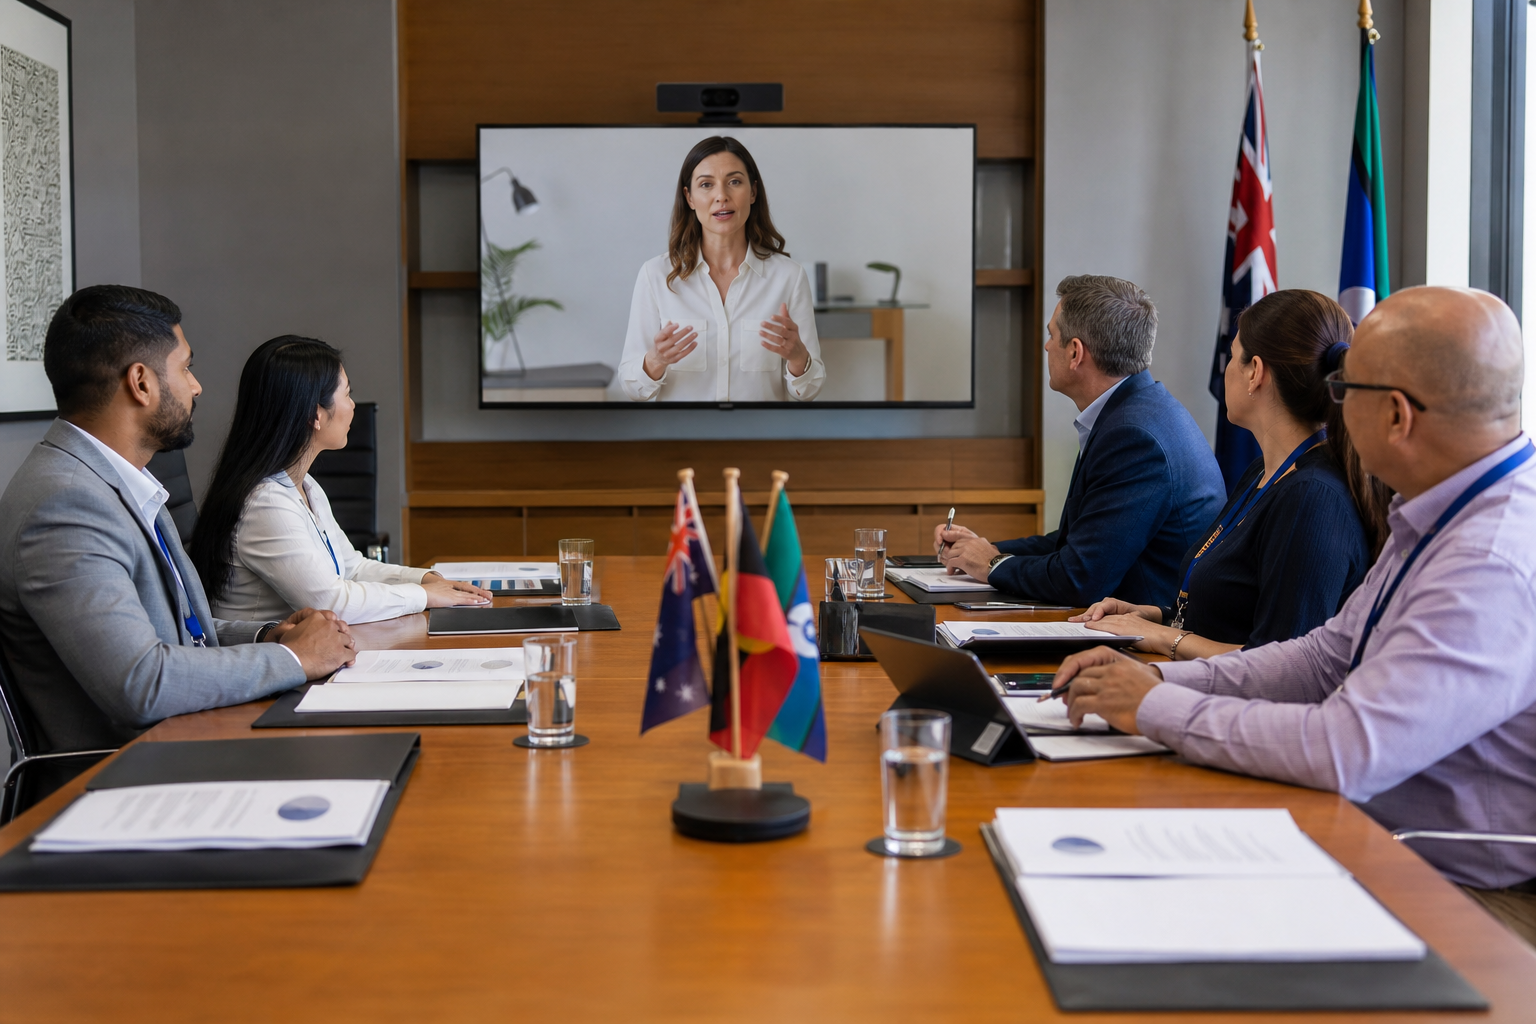
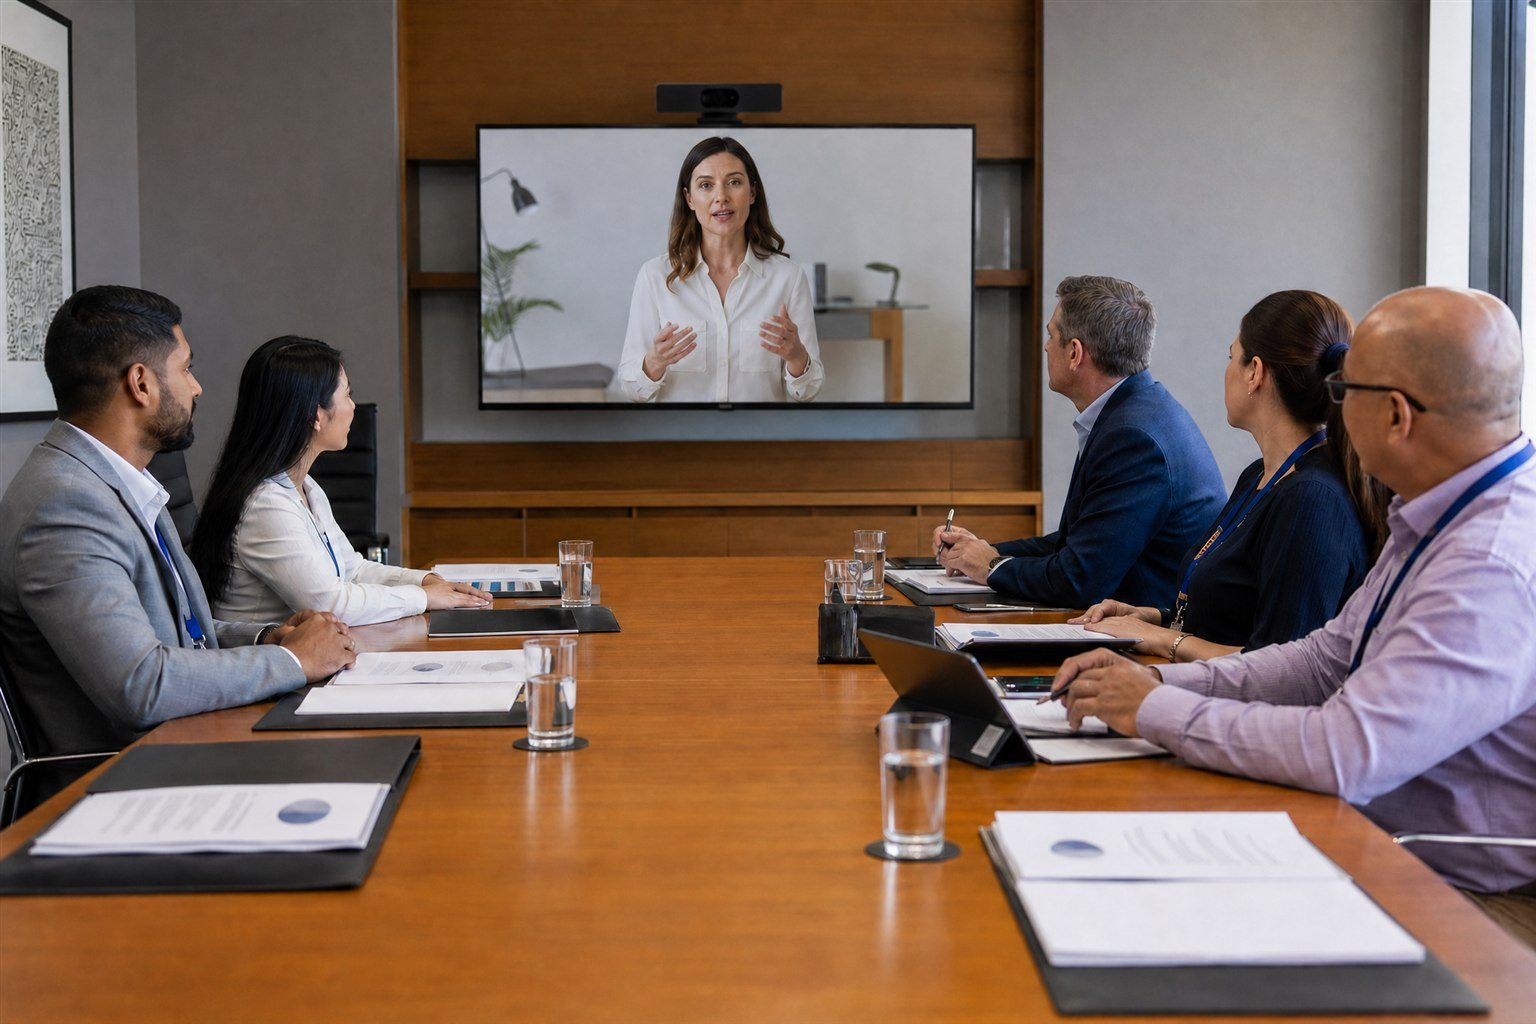
Remove flags from associations card image; refresh program/about imagery and content
- card-associations.jpg: flags removed (large standing flags + desk flags), rest of the scene preserved
- Includes in-progress imagery and content updates across the home, programs, about, giving-back, business and associations pages

diff --git a/app/about/giving-back/page.tsx b/app/about/giving-back/page.tsx
@@ -108,7 +108,7 @@ const projects: Project[] = [
     body: "This health intervention will promote and provide mental health services to 2,000 Compassion participants across Peru.",
     metricFigure: "2,000",
     metricLabel: "participants reached",
-    image: "/images/charity/charity-persona-comms.jpg",
+    image: "/images/mentalhealth.jpg",
     imageAlt:
       "Image representing community mental-health and wellbeing support in Peru",
     accent: "linear-gradient(135deg, #B8434A 0%, #E2894B 100%)",
@@ -123,7 +123,7 @@ const projects: Project[] = [
     body: "This water and sanitation intervention will help to provide safe access to water in Thailand, transforming six communities and hundreds of children's lives through the gift of clean water.",
     metricFigure: "6",
     metricLabel: "communities transformed",
-    image: "/images/charity/charity-persona-ed.jpg",
+    image: "/images/water.jpg",
     imageAlt:
       "Image representing clean-water and sanitation projects for children in Thailand",
     accent: "linear-gradient(135deg, #0F6DA3 0%, #07AFBB 100%)",
@@ -239,7 +239,7 @@ export default function GivingBackPage() {
               <div className="hidden lg:col-span-5 lg:block">
                 <div className="relative aspect-[4/5] overflow-hidden rounded-card shadow-[0_20px_60px_rgba(0,0,0,0.35)]">
                   <Image
-                    src="/images/charity/charity-hero-portrait.jpg"
+                    src="/images/charity.jpg"
                     alt="Hopeful scene representing community impact and giving back"
                     fill
                     priority

diff --git a/app/page.tsx b/app/page.tsx
@@ -310,8 +310,8 @@ export default function Home() {
             <div className="grid grid-cols-1 md:grid-cols-2 lg:grid-cols-3 gap-8 animate-fade-in-up">
               {[
                 { image: "/images/card-schools.jpg", title: "Schools program", description: "Professional development in PR, media and crisis communications for school leaders and staff.", alt: "School leaders undertaking online PR and crisis communications training", href: "/programs/schools" },
-                { image: "/images/card-associations.jpg", title: "Industry & professional associations program", description: "Practical PR skills and resources for association leaders and member organisations.", alt: "Association leaders undertaking online PR training in a boardroom", href: "/programs/industry-associations" },
-                { image: "/images/card-crisis-masterclass.jpg", title: "Crisis masterclass", description: "Australia\u2019s premier crisis communications training program with Melissa Agnes and expert panel.", alt: "Communications professional undertaking an online crisis communications masterclass", href: "/crisis-masterclass" },
+                { image: "/images/associations card.png", title: "Industry & professional associations program", description: "Practical PR skills and resources for association leaders and member organisations.", alt: "Association leaders undertaking online PR training in a boardroom", href: "/programs/industry-associations" },
+                { image: "/images/crisis masterclass home page.png", title: "Crisis masterclass", description: "Australia’s premier crisis communications training program with Melissa Agnes and expert panel.", alt: "Communications professional undertaking an online crisis communications masterclass", href: "/crisis-masterclass" },
               ].map((program) => (
                 <div key={program.title} className="bg-white rounded-card shadow-card overflow-hidden flex flex-col">
                   <div className="relative aspect-video">

diff --git a/content/courses/business.tsx b/content/courses/business.tsx
@@ -103,7 +103,7 @@ export const businessContent: CourseContent = {
       href: "/downloads/business-program-outline.pdf",
     },
     bgImage: HERO_IMAGE,
-    portraitImage: "/images/business/business-hero-portrait.jpg",
+    portraitImage: "/images/myprpartner business program.png",
     portraitCallout: {
       eyebrow: "Trusted by",
       title: <>Australian businesses from cafés to national brands</>,
@@ -263,7 +263,7 @@ export const businessContent: CourseContent = {
       "Elevate your business. Your marketing must be backed up by effective and PR-driven communication to your customers, staff and other stakeholders, that builds growth, trust, and a solid reputation.",
     items: [
       {
-        image: "/images/business/business-persona-owner.jpg",
+        image: "/images/myprpartner business owners.png",
         icon: Briefcase,
         title: "Business owners and founders",
         body:

diff --git a/app/about/page.tsx b/app/about/page.tsx
@@ -252,7 +252,7 @@ export default function AboutPage() {
               <div className="hidden lg:col-span-5 lg:block">
                 <div className="relative aspect-[4/5] overflow-hidden rounded-card shadow-[0_20px_60px_rgba(0,0,0,0.35)]">
                   <Image
-                    src="/images/founders.png"
+                    src="/images/MyPrPartnerHeadshots2025-12.jpg"
                     alt="Lyall Mercer and Barbara Gorogh, co-founders of My PR Partner"
                     fill
                     priority

diff --git a/app/programs/page.tsx b/app/programs/page.tsx
@@ -162,7 +162,7 @@ const programs: Program[] = [
       "A 12-month online PR, profile, reputation and crisis communications program for Australian business owners and leadership teams.",
     audience:
       "Owners, founders and leadership teams - from local professional services firms to national brands.",
-    image: "/images/business/business-persona-owner.jpg",
+    image: "/images/myprpartner business owners.png",
     imageAlt:
       "An Australian business owner working through a leadership team planning session.",
     status: { label: "Launching 2026 · join waitlist", tone: "waitlist" },

diff --git a/content/courses/associations.tsx b/content/courses/associations.tsx
@@ -100,7 +100,7 @@ export const associationsContent: CourseContent = {
       href: "/downloads/associations-program-outline.pdf",
     },
     bgImage: HERO_IMAGE,
-    portraitImage: "/images/associations/associations-hero-portrait.jpg",
+    portraitImage: "/images/industry associations hero.png",
     portraitCallout: {
       eyebrow: "Trusted by",
       title: <>National and state associations across Australia</>,